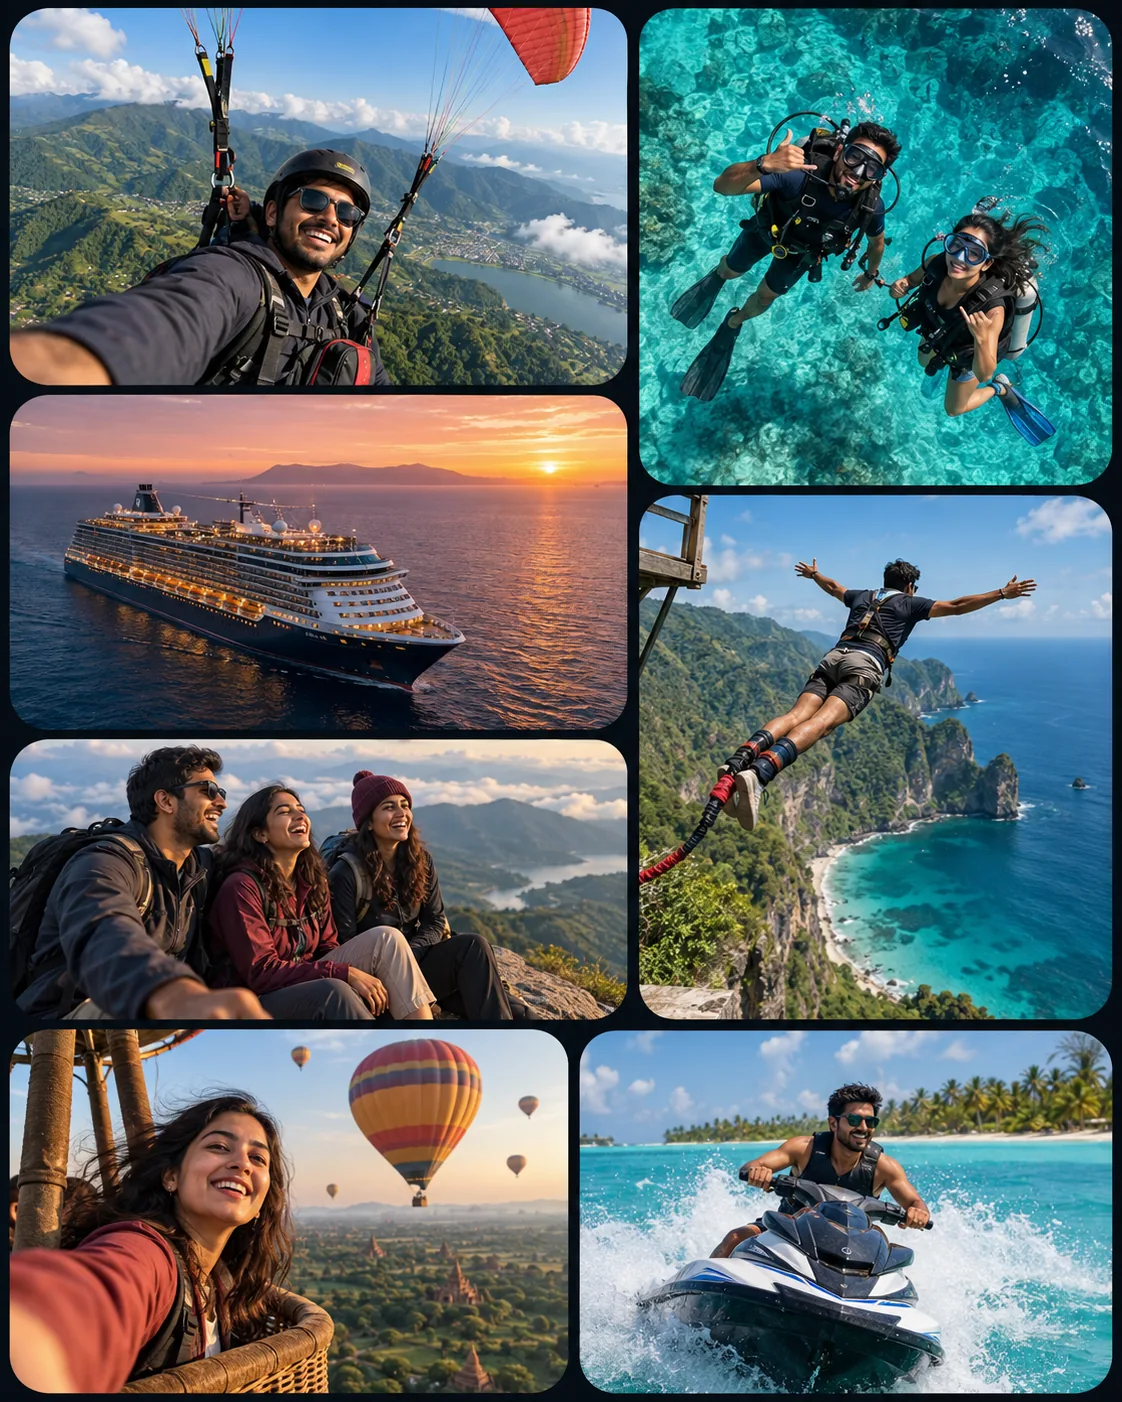
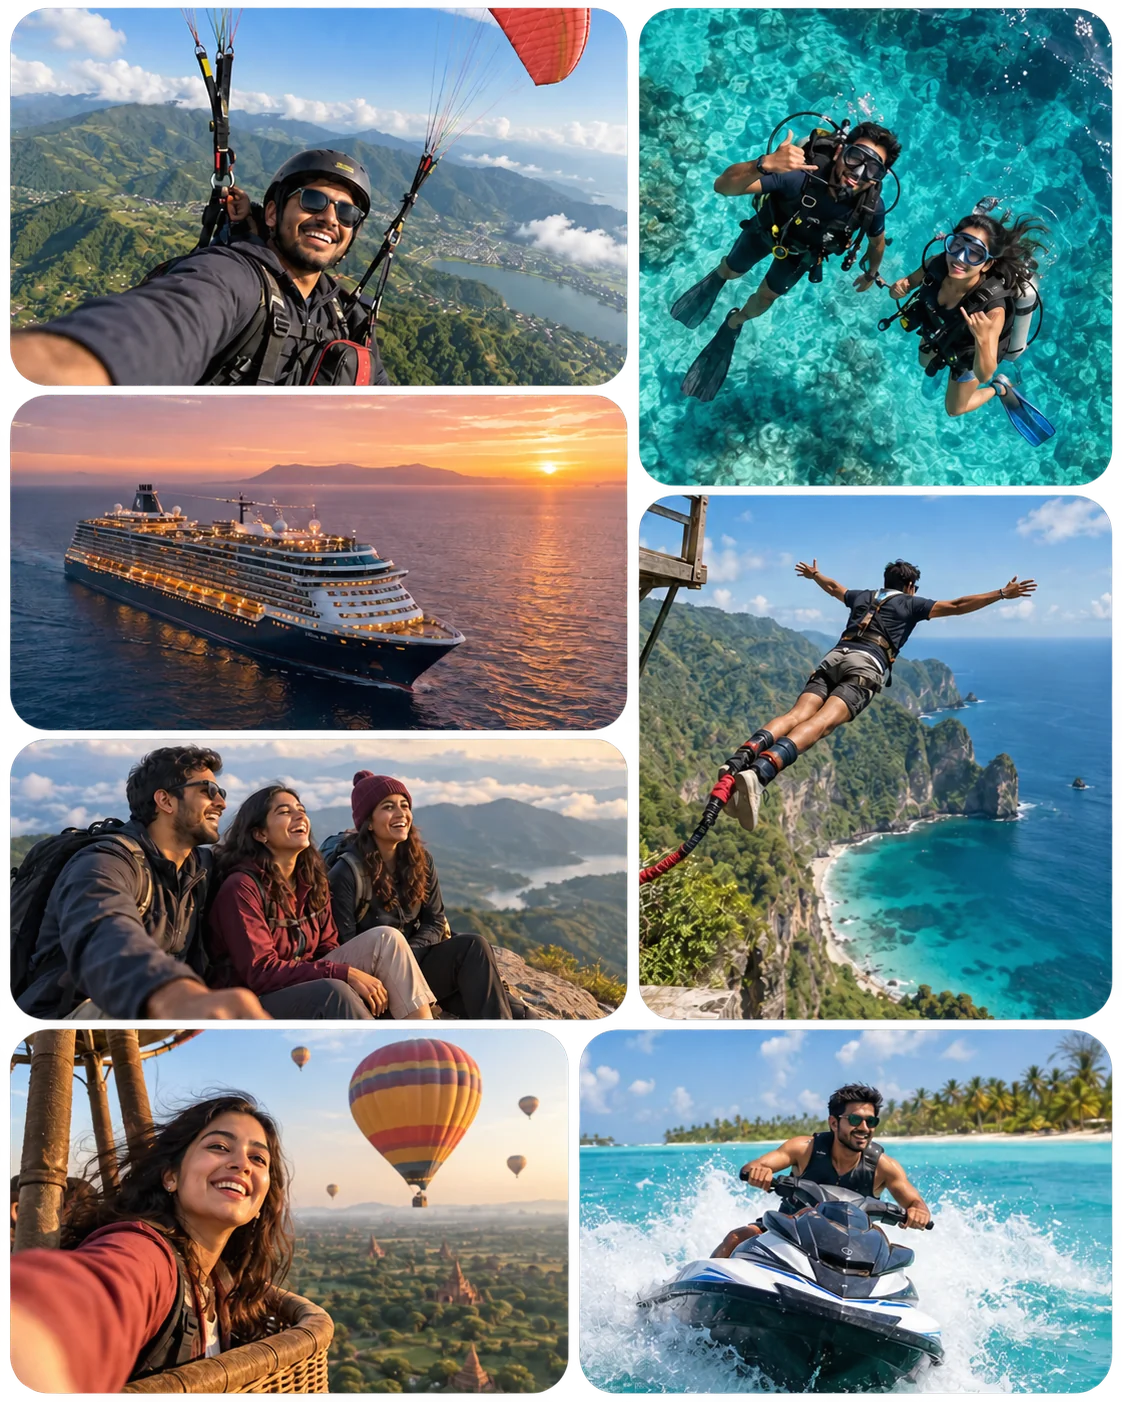
moment image change

diff --git a/app/(site)/page.tsx b/app/(site)/page.tsx
@@ -52,14 +52,14 @@ const TESTIMONIALS = [
 ] as const;
 
 const TRIP_THEME_DETAILS = [
-  { name: "Holiday Package", image: destinationImage("Goa"), description: "Classic escapes" },
-  { name: "Honeymoon", image: destinationImage("Maldives"), description: "Romantic getaways" },
-  { name: "Family", image: destinationImage("Singapore"), description: "Fun for every age" },
-  { name: "Group Trip", image: destinationImage("Ladakh"), description: "Better together" },
-  { name: "Strangers", image: destinationImage("Rishikesh"), description: "Meet your travel tribe" },
-  { name: "Wellness", image: destinationImage("Kerala"), description: "Rest and recharge" },
-  { name: "Spiritual", image: destinationImage("Varanasi"), description: "Meaningful journeys" },
-  { name: "Festival", image: destinationImage("Jaipur"), description: "Celebrate the world" },
+  { name: "Holiday Package", image: "/filter-holiday-package.png", description: "Classic escapes" },
+  { name: "Honeymoon", image: "/filter-honeymoon.png", description: "Romantic getaways" },
+  { name: "Family", image: "/filter-family.png", description: "Fun for every age" },
+  { name: "Group Trip", image: "/filter-group-trip.png", description: "Better together" },
+  { name: "Strangers", image: "/filter-voibee-circles.png", description: "Meet your travel tribe" },
+  { name: "Wellness", image: "/filter-wellness.png", description: "Rest and recharge" },
+  { name: "Spiritual", image: "/filter-spiritual.png", description: "Meaningful journeys" },
+  { name: "Festival", image: "/filter-festival.png", description: "Celebrate the world" },
 ] satisfies Array<{
   name: TripCategory;
   image: string;
@@ -221,13 +221,13 @@ export default async function HomePage({
               </Button></a>
             </div>
           </div>
-          <div className="relative min-h-[420px] overflow-hidden sm:min-h-[520px] lg:min-h-[600px]">
+          <div className="relative min-h-[420px] sm:min-h-[520px] lg:min-h-[600px]">
             <Image
         src="/moments-road-premium.webp"
         alt="Voibee travelers enjoying a premium Kerala road trip"
               fill
               sizes="(min-width: 1024px) 720px, 100vw"
-        className="object-cover object-center"
+        className="object-contain object-center"
             />
           </div>
         </div>

diff --git a/components/home/theme-carousel.tsx b/components/home/theme-carousel.tsx
@@ -46,9 +46,8 @@ export function ThemeCarousel({ themes, country }: { themes: Theme[]; country?: 
       <div ref={carouselRef} className="grid snap-x snap-mandatory auto-cols-[calc(50%-0.375rem)] grid-flow-col grid-rows-2 gap-3 overflow-x-auto px-1 pb-2 scroll-smooth [scrollbar-width:none] sm:auto-cols-[calc(33.333%-0.834rem)] sm:grid-rows-1 sm:gap-5 lg:auto-cols-[calc(16.667%-1.042rem)] [&::-webkit-scrollbar]:hidden">
         {themes.map((theme) => (
           <Link key={theme.name} href={withCountryParam(`/packages?category=${encodeURIComponent(theme.name)}`, country)} className="group relative block snap-start pb-10 sm:pb-10">
-            <div className="relative aspect-[4/5] overflow-hidden rounded-[28px] sm:rounded-[34px]">
-              <Image src={theme.image} alt={`${tripThemeLabel(theme.name)} tour packages`} fill sizes="(max-width: 640px) 50vw, (max-width: 1024px) 33vw, 17vw" className="object-cover transition duration-500 group-hover:scale-105" />
-              <div className="absolute inset-0 bg-gradient-to-t from-slate-950/30 via-transparent to-transparent" />
+            <div className="relative aspect-[4/5] overflow-hidden rounded-[28px] bg-secondary sm:rounded-[34px]">
+              <Image src={theme.image} alt={`${tripThemeLabel(theme.name)} tour packages`} fill sizes="(max-width: 640px) 50vw, (max-width: 1024px) 38vw, 17vw" className="object-contain p-4 transition duration-500 group-hover:scale-105 sm:p-6" />
             </div>
             <div className="absolute inset-x-2 bottom-0 mx-auto flex min-h-24 max-w-[88%] flex-col items-center justify-center rounded-t-[999px] bg-white px-2 pb-2 pt-3 text-center shadow-[0_-8px_24px_rgba(15,23,42,0.08)] sm:min-h-28 sm:px-3 sm:pt-5">
             

diff --git a/components/site/footer.tsx b/components/site/footer.tsx
@@ -1,6 +1,7 @@
 "use client";
 
 import Link from "next/link";
+import { Mail, MapPin, Phone } from "lucide-react";
 import { TRIP_CATEGORIES, tripThemeLabel } from "@/lib/constants";
 import { useSearchParams } from "next/navigation";
 import { useEffect, useState } from "react";
@@ -38,13 +39,9 @@ export function Footer() {
         <div className="md:col-span-1">
 
           <div className="mt-4 space-y-2 text-sm text-muted-foreground">
-            <span className="font-bold">Contact us:</span> <br />
-       <div>     <a href={`tel:${appConfig.mobile.replace(/\s/g, "")}`} className="block hover:text-primary">{appConfig.mobile}</a>
-            <a href={`mailto:${appConfig.email}`} className="block hover:text-primary">{appConfig.email}</a></div>
-
-            <span className="font-bold">Office:</span> <br />
-            <span className="block">{appConfig.address}</span>
-          
+            <a href={`tel:${appConfig.mobile.replace(/\s/g, "")}`} className="flex items-center gap-2 hover:text-primary"><Phone className="size-4 shrink-0 text-primary" />{appConfig.mobile}</a>
+            <a href={`mailto:${appConfig.email}`} className="flex items-center gap-2 hover:text-primary"><Mail className="size-4 shrink-0 text-primary" />{appConfig.email}</a>
+            <span className="flex items-start gap-2"><MapPin className="mt-0.5 size-4 shrink-0 text-primary" />{appConfig.address}</span>
           </div>
         </div>
 
